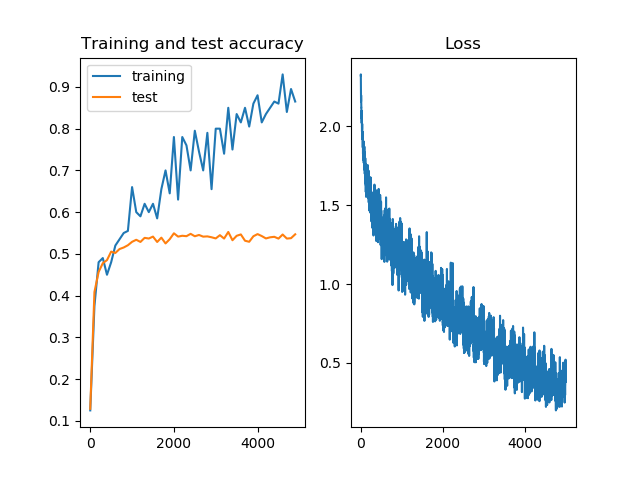
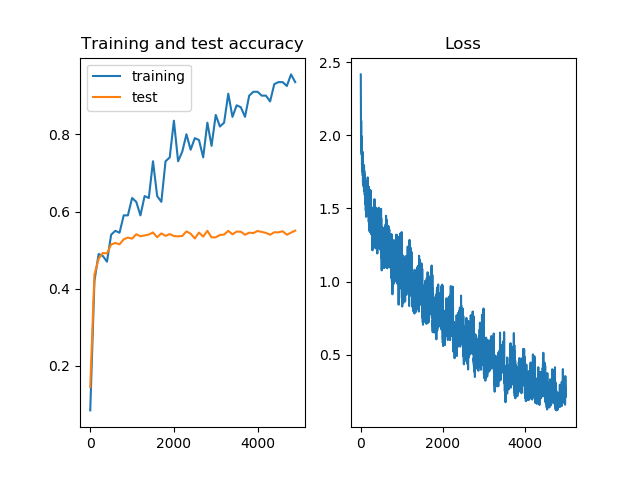
implement batch normalization manually and introduce the model in the training

diff --git a/assignment_1/code/custom_batchnorm.py b/assignment_1/code/custom_batchnorm.py
@@ -28,16 +28,19 @@ class CustomBatchNormAutograd(nn.Module):
       n_neurons: int specifying the number of neurons
       eps: small float to be added to the variance for stability
     
-    TODO:
-      Save parameters for the number of neurons and eps.
-      Initialize parameters gamma and beta via nn.Parameter
+
     """
     super(CustomBatchNormAutograd, self).__init__()
 
     ########################
     # PUT YOUR CODE HERE  #
     #######################
-    raise NotImplementedError
+    # Save parameters for the number of neurons and epsilon.
+    self.n_neurons = n_neurons
+    self.eps = eps
+    # Initialize parameters gamma and beta via nn.Parameter
+    self.gamma = nn.Parameter(torch.ones(n_neurons))
+    self.beta = nn.Parameter(torch.zeros(n_neurons))
     ########################
     # END OF YOUR CODE    #
     #######################
@@ -50,17 +53,27 @@ class CustomBatchNormAutograd(nn.Module):
       input: input tensor of shape (n_batch, n_neurons)
     Returns:
       out: batch-normalized tensor
-    
-    TODO:
-      Check for the correctness of the shape of the input tensor.
-      Implement batch normalization forward pass as given in the assignment.
-      For the case that you make use of torch.var be aware that the flag unbiased=False should be set.
+
     """
 
     ########################
     # PUT YOUR CODE HERE  #
     #######################
-    raise NotImplementedError
+    # Check for the correctness of the shape of the input tensor.
+    assert input.shape[1] == self.n_neurons, "the shape of the input vector is not correct"
+
+    # Implement batch normalization forward pass as given in the assignment.
+
+    # compute mean
+    cmean = input.mean(dim=0)
+    # compute variance
+    cvariance = input.var(dim=0, unbiased=False)
+    # normalize with a constant eps << 1 to avoid numerical instability
+    xnorm = (input - cmean) / torch.sqrt(cvariance + self.eps)
+    # scale and fit
+    out = torch.mul(self.gamma, xnorm) + self.beta
+
+    assert input.shape == out.shape, "the output shape does not match the input shape"
     ########################
     # END OF YOUR CODE    #
     #######################
@@ -102,19 +115,37 @@ class CustomBatchNormManualFunction(torch.autograd.Function):
     Returns:
       out: batch-normalized tensor
 
-    TODO:
-      Implement the forward pass of batch normalization
-      Store constant non-tensor objects via ctx.constant=myconstant
-      Store tensors which you need in the backward pass via ctx.save_for_backward(tensor1, tensor2, ...)
-      Intermediate results can be decided to be either recomputed in the backward pass or to be stored
-      for the backward pass. Do not store tensors which are unnecessary for the backward pass to save memory!
-      For the case that you make use of torch.var be aware that the flag unbiased=False should be set.
+
     """
 
     ########################
     # PUT YOUR CODE HERE  #
     #######################
-    raise NotImplementedError
+    # input: input tensor of shape (n_batch, n_neurons)
+    n_batch, n_neurons = input.shape
+
+    # manually compute mean
+    cmean = 1 / n_batch * torch.sum(input, dim=0)
+    x_mean = (input - cmean.unsqueeze(0))
+
+    # manually compute variance
+    cvariance = 1 / n_batch * torch.einsum('ij,ij->j', (x_mean, x_mean))
+    cvariance.unsqueeze_(0)
+
+    # normalize with epsilon to avoid numerical instability
+    norm = 1 / torch.sqrt(cvariance + eps)
+    xnorm = x_mean * norm
+
+    # scale and fit
+    out = xnorm * gamma + beta
+
+    # Store tensors which you need in the backward pass via ctx.save_for_backward(tensor1, tensor2, ...)
+    ctx.save_for_backward(norm, xnorm, gamma)
+
+    # Store constant non-tensor objects via ctx.constant=myconstant
+    ctx.n_batch = n_batch
+    ctx.gamma = gamma
+
     ########################
     # END OF YOUR CODE    #
     #######################
@@ -132,17 +163,29 @@ class CustomBatchNormManualFunction(torch.autograd.Function):
            whether tensors need gradients in backward pass
     Returns:
       out: tuple containing gradients for all input arguments
-    
-    TODO:
-      Retrieve saved tensors and constants via ctx.saved_tensors and ctx.constant
-      Compute gradients for inputs where ctx.needs_input_grad[idx] is True. Set gradients for other
-      inputs to None. This should be decided dynamically.
+
     """
 
     ########################
     # PUT YOUR CODE HERE  #
     #######################
-    raise NotImplementedError
+
+    # Retrieve saved tensors and constants via ctx.saved_tensors and ctx.constant
+    norm, xnorm, gamma = ctx.saved_tensors
+    n_batch = ctx.n_batch
+
+
+    # Compute gradients for inputs where ctx.needs_input_grad[idx] is True. Set gradients for other
+    # inputs to None. This should be decided dynamically.
+    grad_input = grad_gamma = grad_beta = None
+    dx_norm = grad_output * gamma
+    if ctx.needs_input_grad[0]:
+      grad_input = 1/n_batch * norm * ((n_batch * dx_norm)-torch.sum(dx_norm, dim=0)-(xnorm * torch.sum(dx_norm * xnorm, dim=0)))
+    if ctx.needs_input_grad[1]:
+      grad_beta = torch.sum(grad_output, dim=0)
+    if ctx.needs_input_grad[2]:
+      grad_gamma = torch.sum(xnorm * grad_output, dim=0)
+
     ########################
     # END OF YOUR CODE    #
     #######################
@@ -170,17 +213,19 @@ class CustomBatchNormManualModule(nn.Module):
     Args:
       n_neurons: int specifying the number of neurons
       eps: small float to be added to the variance for stability
-    
-    TODO:
-      Save parameters for the number of neurons and eps.
-      Initialize parameters gamma and beta via nn.Parameter
+
     """
     super(CustomBatchNormManualModule, self).__init__()
 
     ########################
     # PUT YOUR CODE HERE  #
     #######################
-    raise NotImplementedError
+    # Save parameters for the number of neurons and epsilon.
+    self.n_neurons = n_neurons
+    self.eps = eps
+    # Initialize parameters gamma and beta via nn.Parameter
+    self.gamma = nn.Parameter(torch.ones(n_neurons))
+    self.beta = nn.Parameter(torch.zeros(n_neurons))
     ########################
     # END OF YOUR CODE    #
     #######################
@@ -203,7 +248,10 @@ class CustomBatchNormManualModule(nn.Module):
     ########################
     # PUT YOUR CODE HERE  #
     #######################
-    raise NotImplementedError
+
+    assert input.shape[1] == self.n_neurons , "the input tensor does not have the correct shape"
+    layer = CustomBatchNormManualFunction()
+    out = layer.apply(input, self.gamma, self.beta, self.eps)
     ########################
     # END OF YOUR CODE    #
     #######################

diff --git a/assignment_1/code/mlp_pytorch.py b/assignment_1/code/mlp_pytorch.py
@@ -6,7 +6,7 @@ from __future__ import absolute_import
 from __future__ import division
 from __future__ import print_function
 from torch import nn
-
+from custom_batchnorm import CustomBatchNormManualModule
 class MLP(nn.Module):
   """
   This class implements a Multi-layer Perceptron in PyTorch.
@@ -39,11 +39,12 @@ class MLP(nn.Module):
     in_features = n_inputs
     for out_features in n_hidden:
       linear = nn.Linear(in_features, out_features)
-      batchnorm = nn.BatchNorm1d(out_features)
+      ##batchnorm = nn.BatchNorm1d(out_features)
      # dropout = nn.Dropout(0.2)
       relu = nn.ReLU()
       self.layers.append(linear)
-      self.layers.append(batchnorm)  # custom addition
+      ##self.layers.append(batchnorm)
+      self.layers.append(CustomBatchNormManualModule(out_features))
      # self.layers.append(dropout)
       self.layers.append(relu)
 
